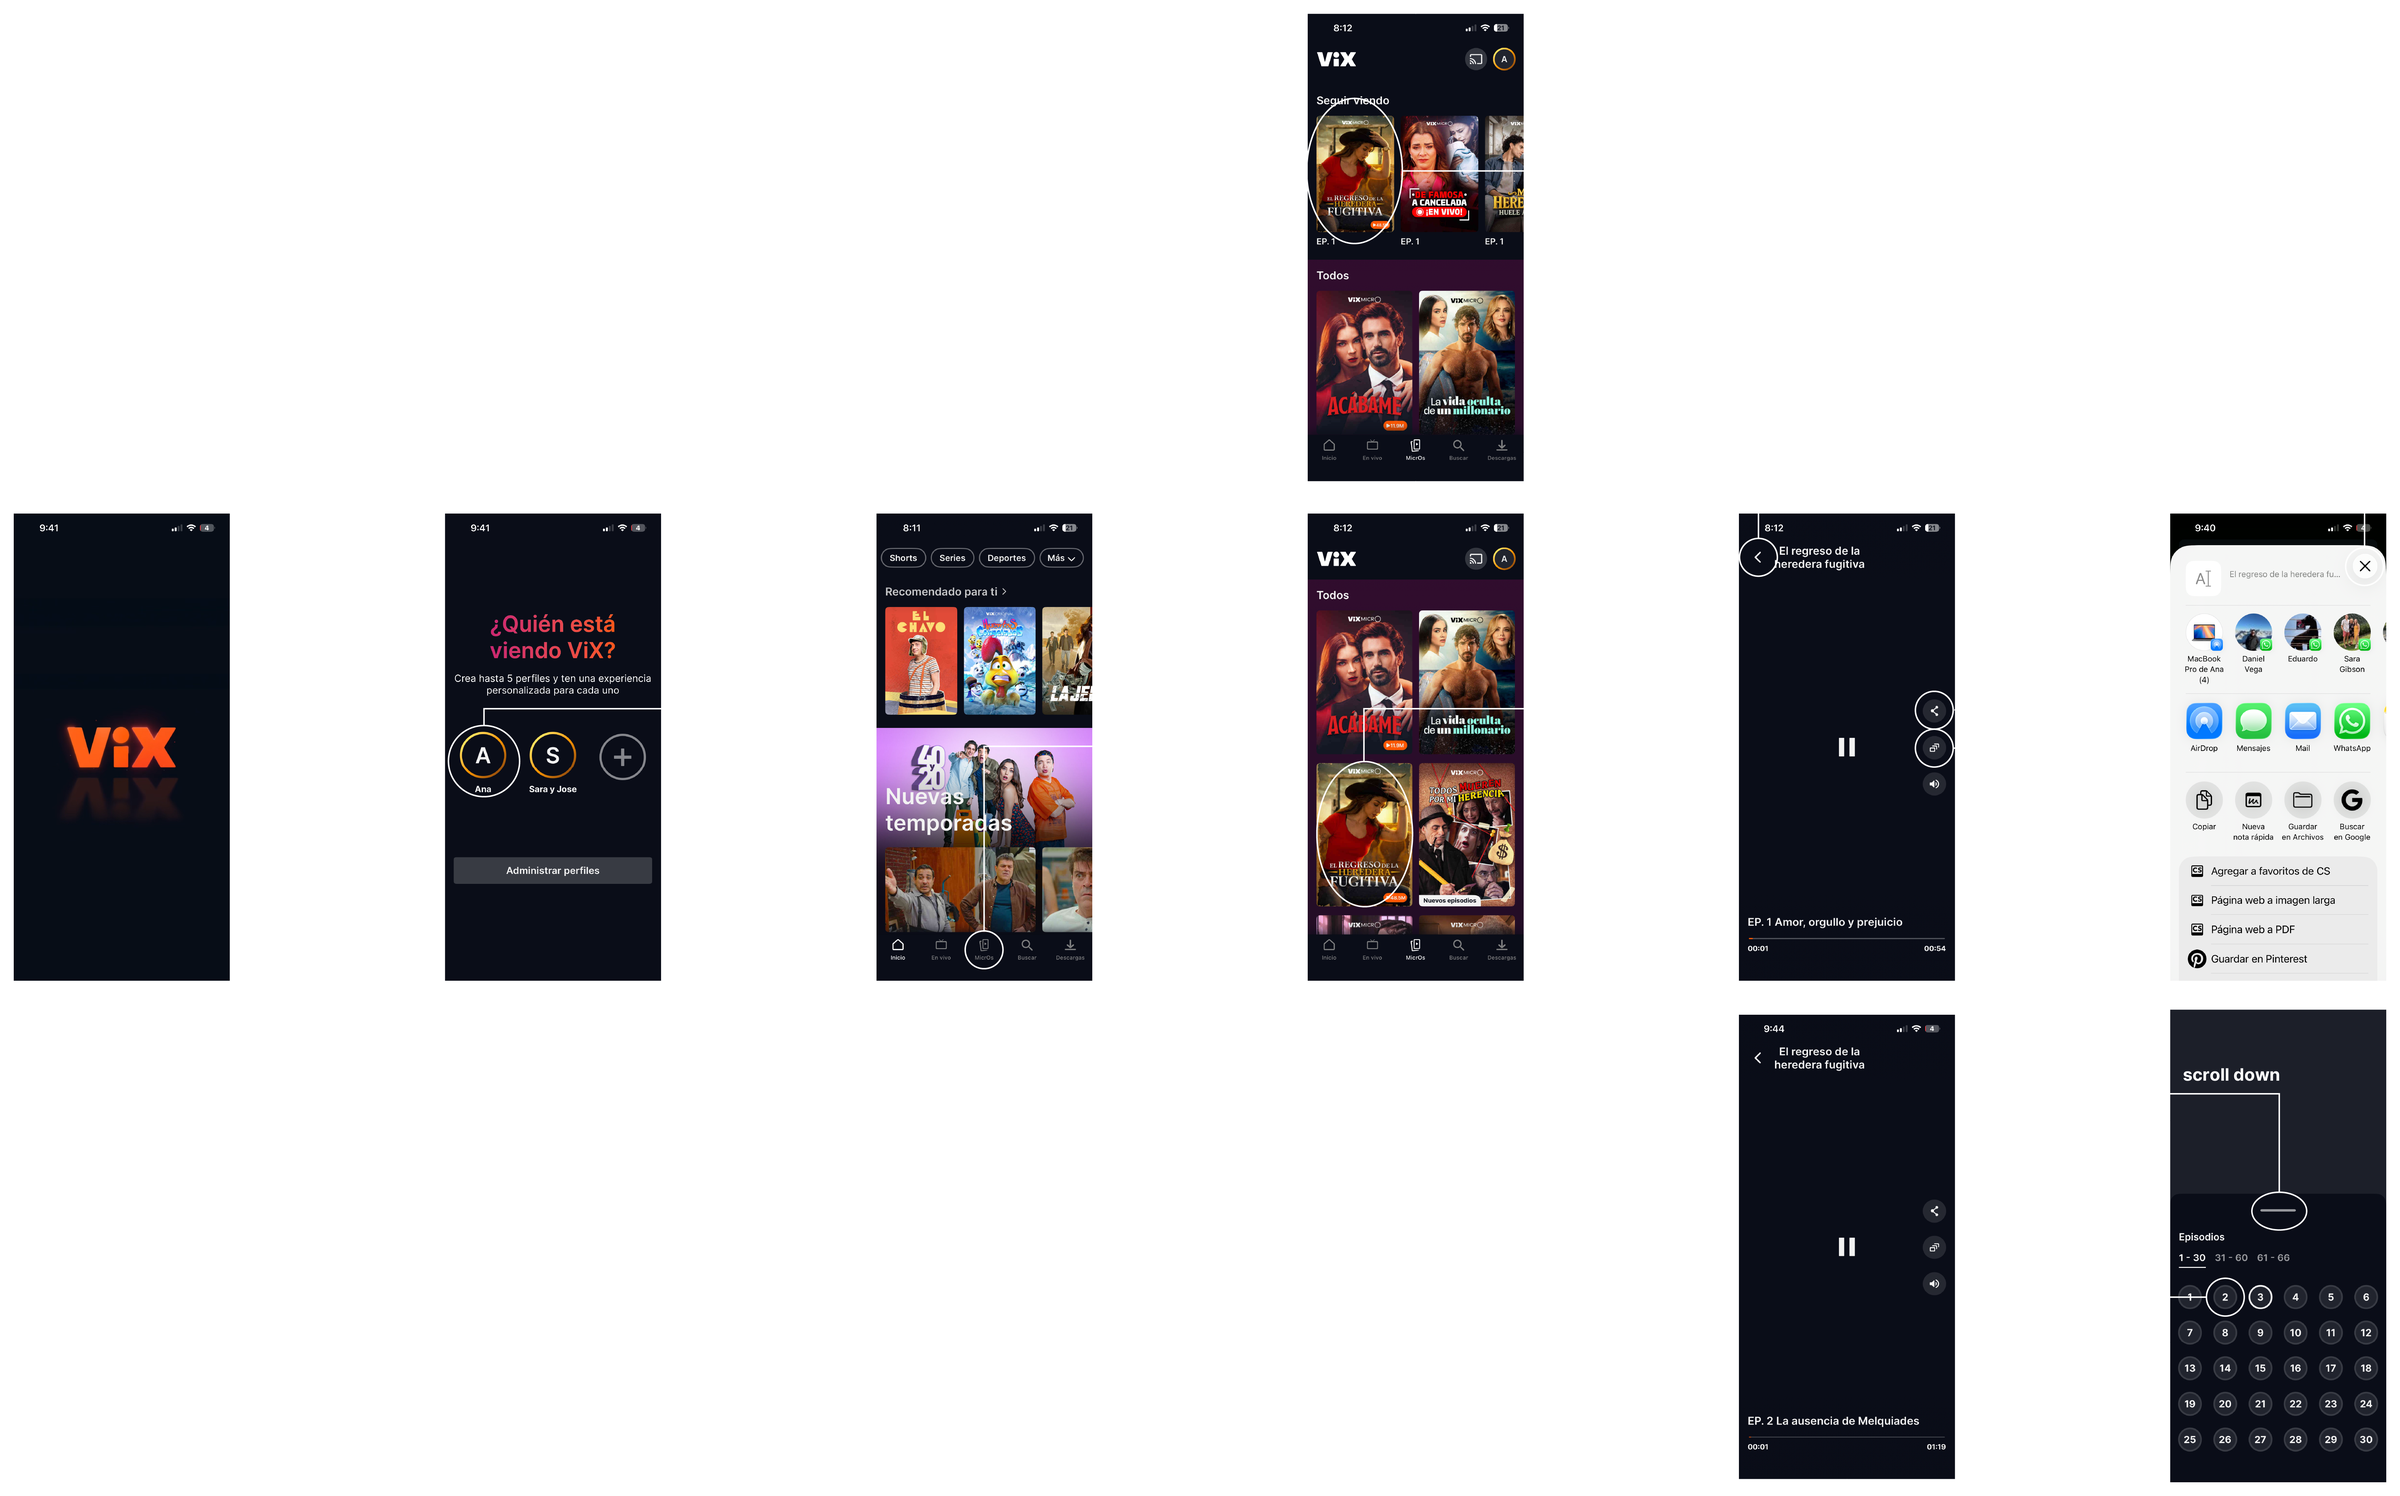
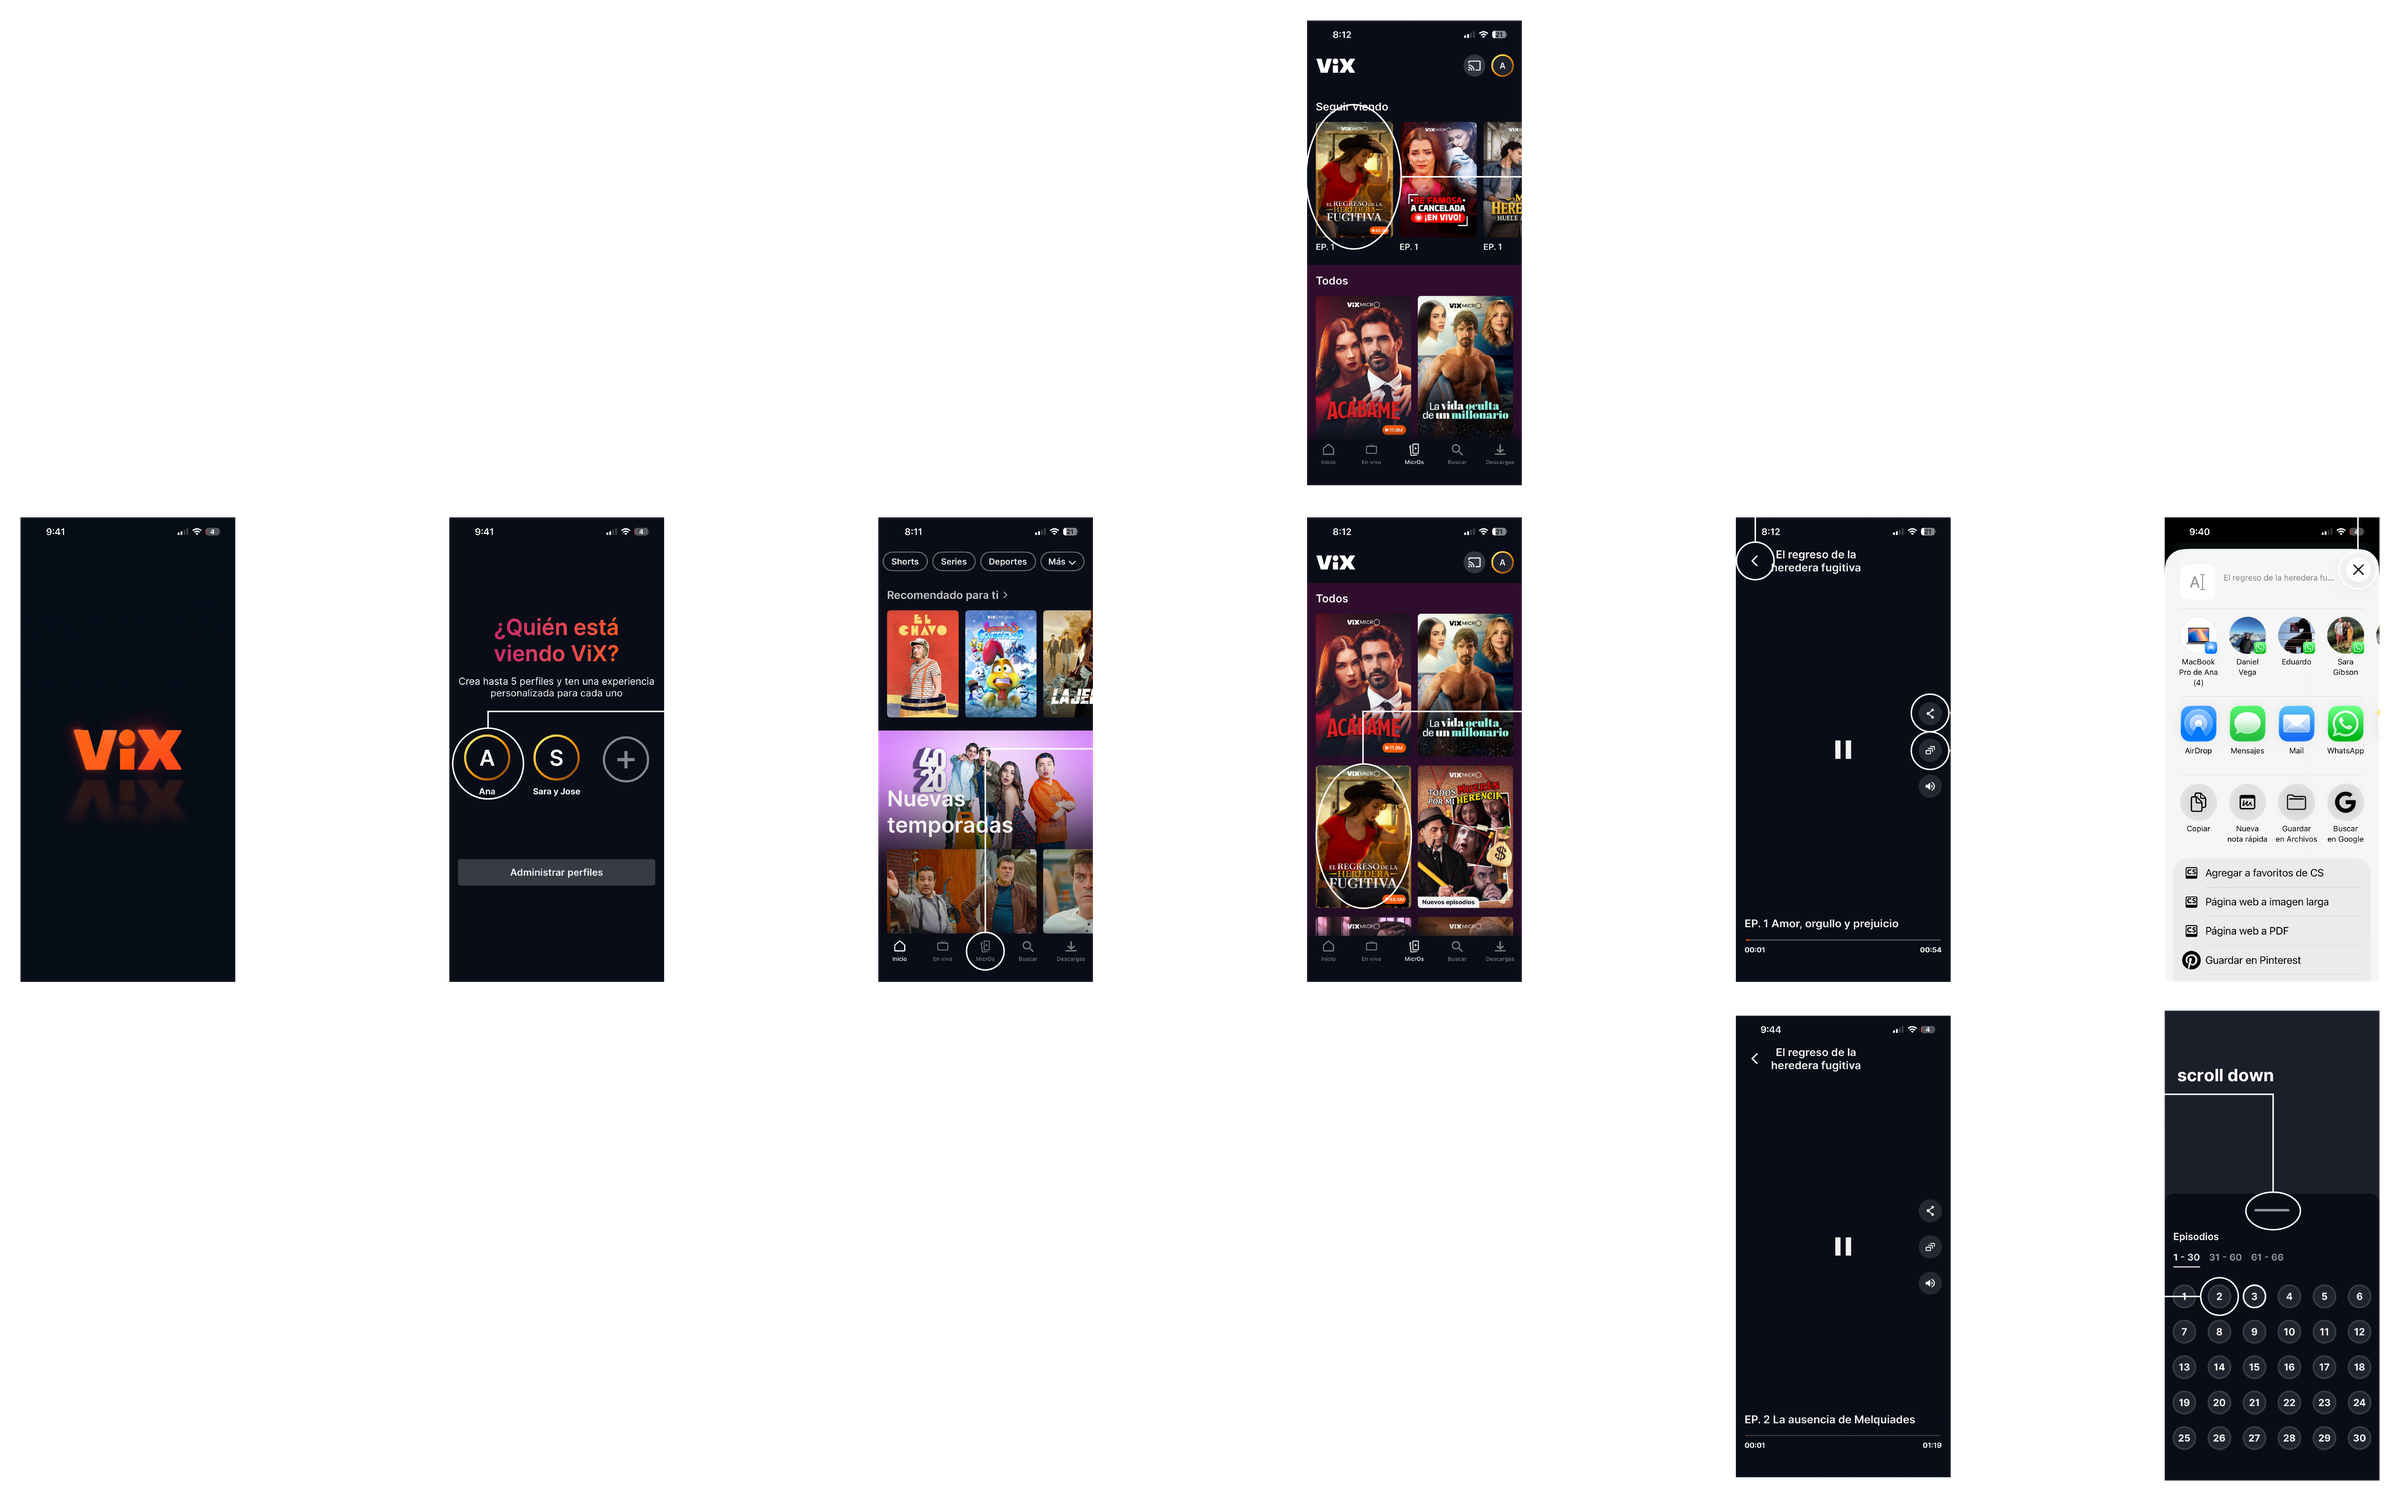
Keep transparency in ViX Micro screens and flows; flows on a dark panel; stats rows always fill
Claude-Session: https://claude.ai/code/session_01Av13jmPX6NZ3qPPjzZ2VjD

diff --git a/app/work/vix-micro/page.tsx b/app/work/vix-micro/page.tsx
@@ -82,6 +82,7 @@ export default function VixMicroCaseStudy() {
           height={1820}
           caption="The first flow: from opening the app to watching a Micro"
           wide
+          tone="dark"
         />
       </Section>
 
@@ -129,28 +130,29 @@ export default function VixMicroCaseStudy() {
           height={1496}
           caption="The final flow, with the share button and the episode selector"
           wide
+          tone="dark"
         />
         <Gallery
           items={[
             {
-              src: "/images/vix-micro/screen-home.jpg",
+              src: "/images/vix-micro/screen-home.png",
               alt: "ViX home screen featuring a ViX Micro title",
               caption: "ViX Micro on the home screen",
-              width: 686,
+              width: 687,
               height: 1400,
             },
             {
-              src: "/images/vix-micro/screen-micros.jpg",
+              src: "/images/vix-micro/screen-micros.png",
               alt: "The Micros section with a grid of vertical series",
               caption: "The Micros section",
-              width: 686,
+              width: 687,
               height: 1400,
             },
             {
-              src: "/images/vix-micro/screen-player.jpg",
+              src: "/images/vix-micro/screen-player.png",
               alt: "Vertical player showing episode 1 with share and episode controls",
               caption: "The vertical player",
-              width: 686,
+              width: 687,
               height: 1400,
             },
           ]}

diff --git a/components/Case.tsx b/components/Case.tsx
@@ -103,7 +103,10 @@ export function Callout({ children, kicker }: { children: React.ReactNode; kicke
   );
 }
 
-/* An image with a caption. "wide" lets it break out of the text column */
+/* An image with a caption.
+   wide: lets it break out of the text column.
+   tone: "card" = white frame (photos), "dark" = dark panel (flows with white arrows),
+         "plain" = no frame at all (transparent PNGs). */
 export function Figure({
   src,
   alt,
@@ -111,6 +114,7 @@ export function Figure({
   height,
   caption,
   wide = false,
+  tone = "card",
 }: {
   src: string;
   alt: string;
@@ -118,9 +122,10 @@ export function Figure({
   height: number;
   caption?: string;
   wide?: boolean;
+  tone?: "card" | "dark" | "plain";
 }) {
   return (
-    <figure className={`${styles.figure} ${wide ? styles.wide : ""}`}>
+    <figure className={`${styles.figure} ${styles[tone]} ${wide ? styles.wide : ""}`}>
       <Image
         src={src}
         alt={alt}
@@ -207,7 +212,7 @@ export function Gallery({
   return (
     <div className={styles.gallery}>
       {items.map((item) => (
-        <figure key={item.src} className={styles.figure}>
+        <figure key={item.src} className={`${styles.figure} ${styles.plain}`}>
           <Image
             src={item.src}
             alt={item.alt}

diff --git a/components/Case.module.css b/components/Case.module.css
@@ -171,9 +171,26 @@
 
 .figure img {
   width: 100%;
+}
+
+/* Photos and screenshots: white frame */
+.card img {
   border-radius: calc(var(--radius) - 4px);
   border: 1px solid var(--line);
   background: #fff;
+}
+
+/* Flows with white arrows: dark panel so the lines stay visible */
+.dark img {
+  padding: clamp(12px, 3vw, 40px);
+  border-radius: var(--radius);
+  background: var(--ink);
+}
+
+/* Transparent PNGs (phones): no frame */
+.plain img {
+  background: none;
+  border: none;
 }
 
 .figure figcaption {
@@ -184,9 +201,10 @@
 }
 
 /* ---------- STATS ---------- */
+/* Flex (not grid) so the last row stretches to fill the width: no empty cells */
 .stats {
-  display: grid;
-  grid-template-columns: repeat(auto-fill, minmax(min(100%, 220px), 1fr));
+  display: flex;
+  flex-wrap: wrap;
   gap: 1px;
   list-style: none;
   padding: 0;
@@ -197,6 +215,7 @@
 }
 
 .stats li {
+  flex: 1 1 220px;
   display: flex;
   flex-direction: column;
   gap: 8px;
